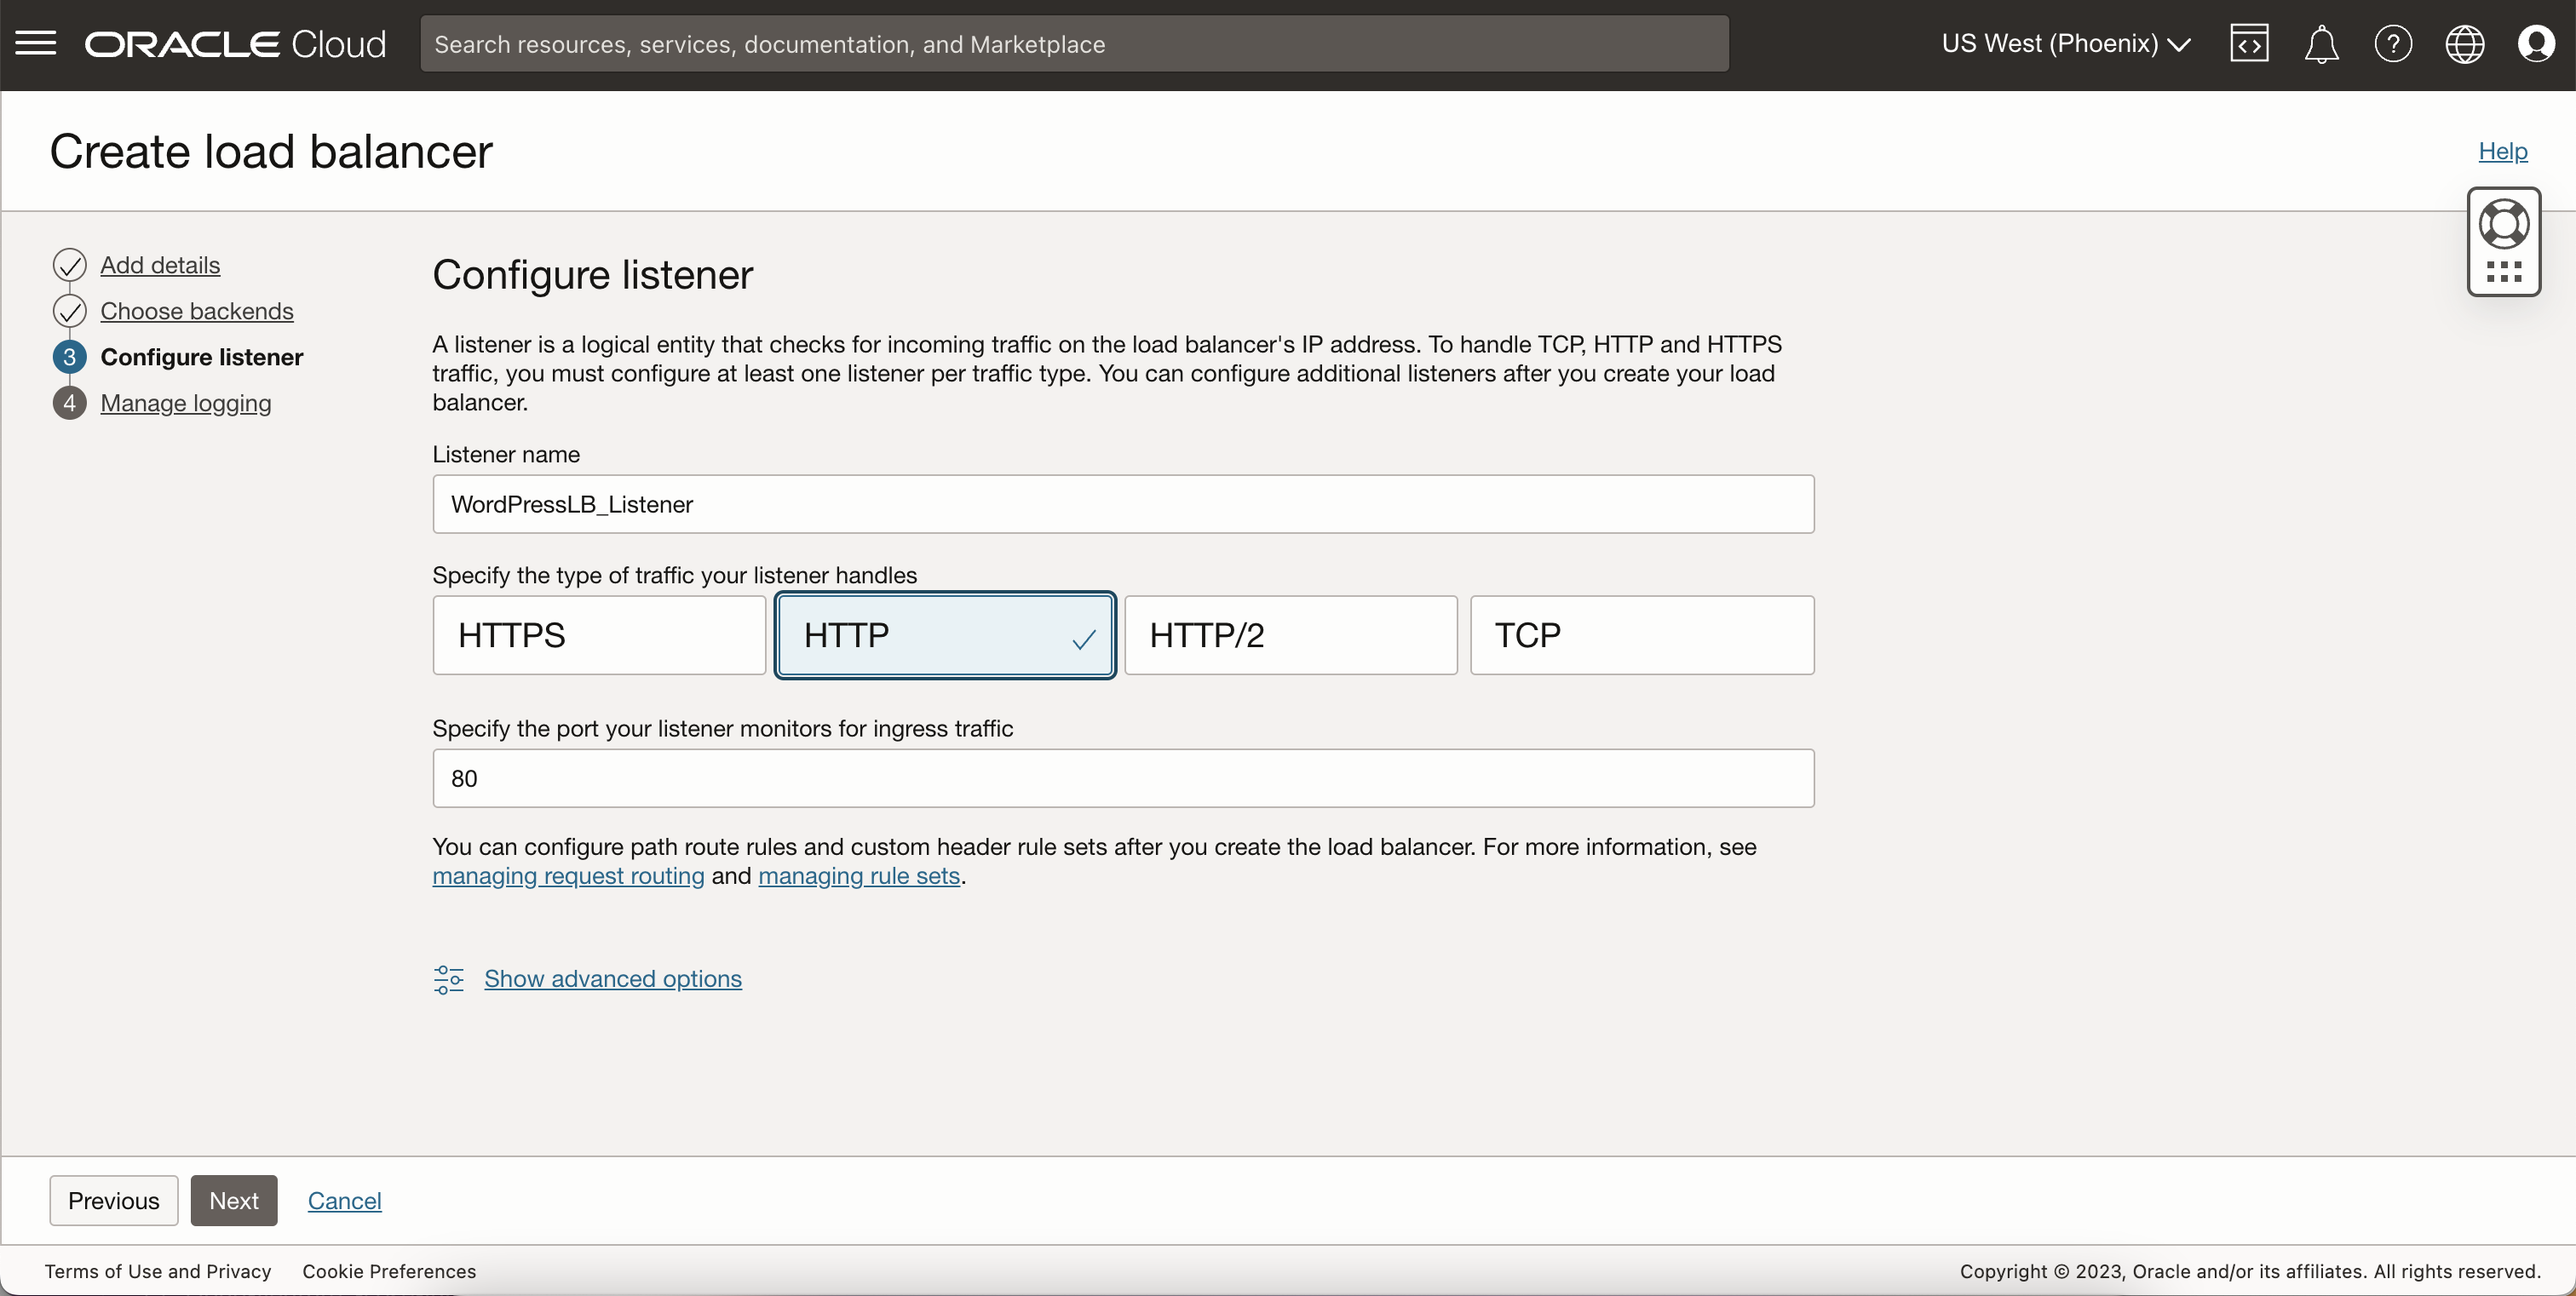
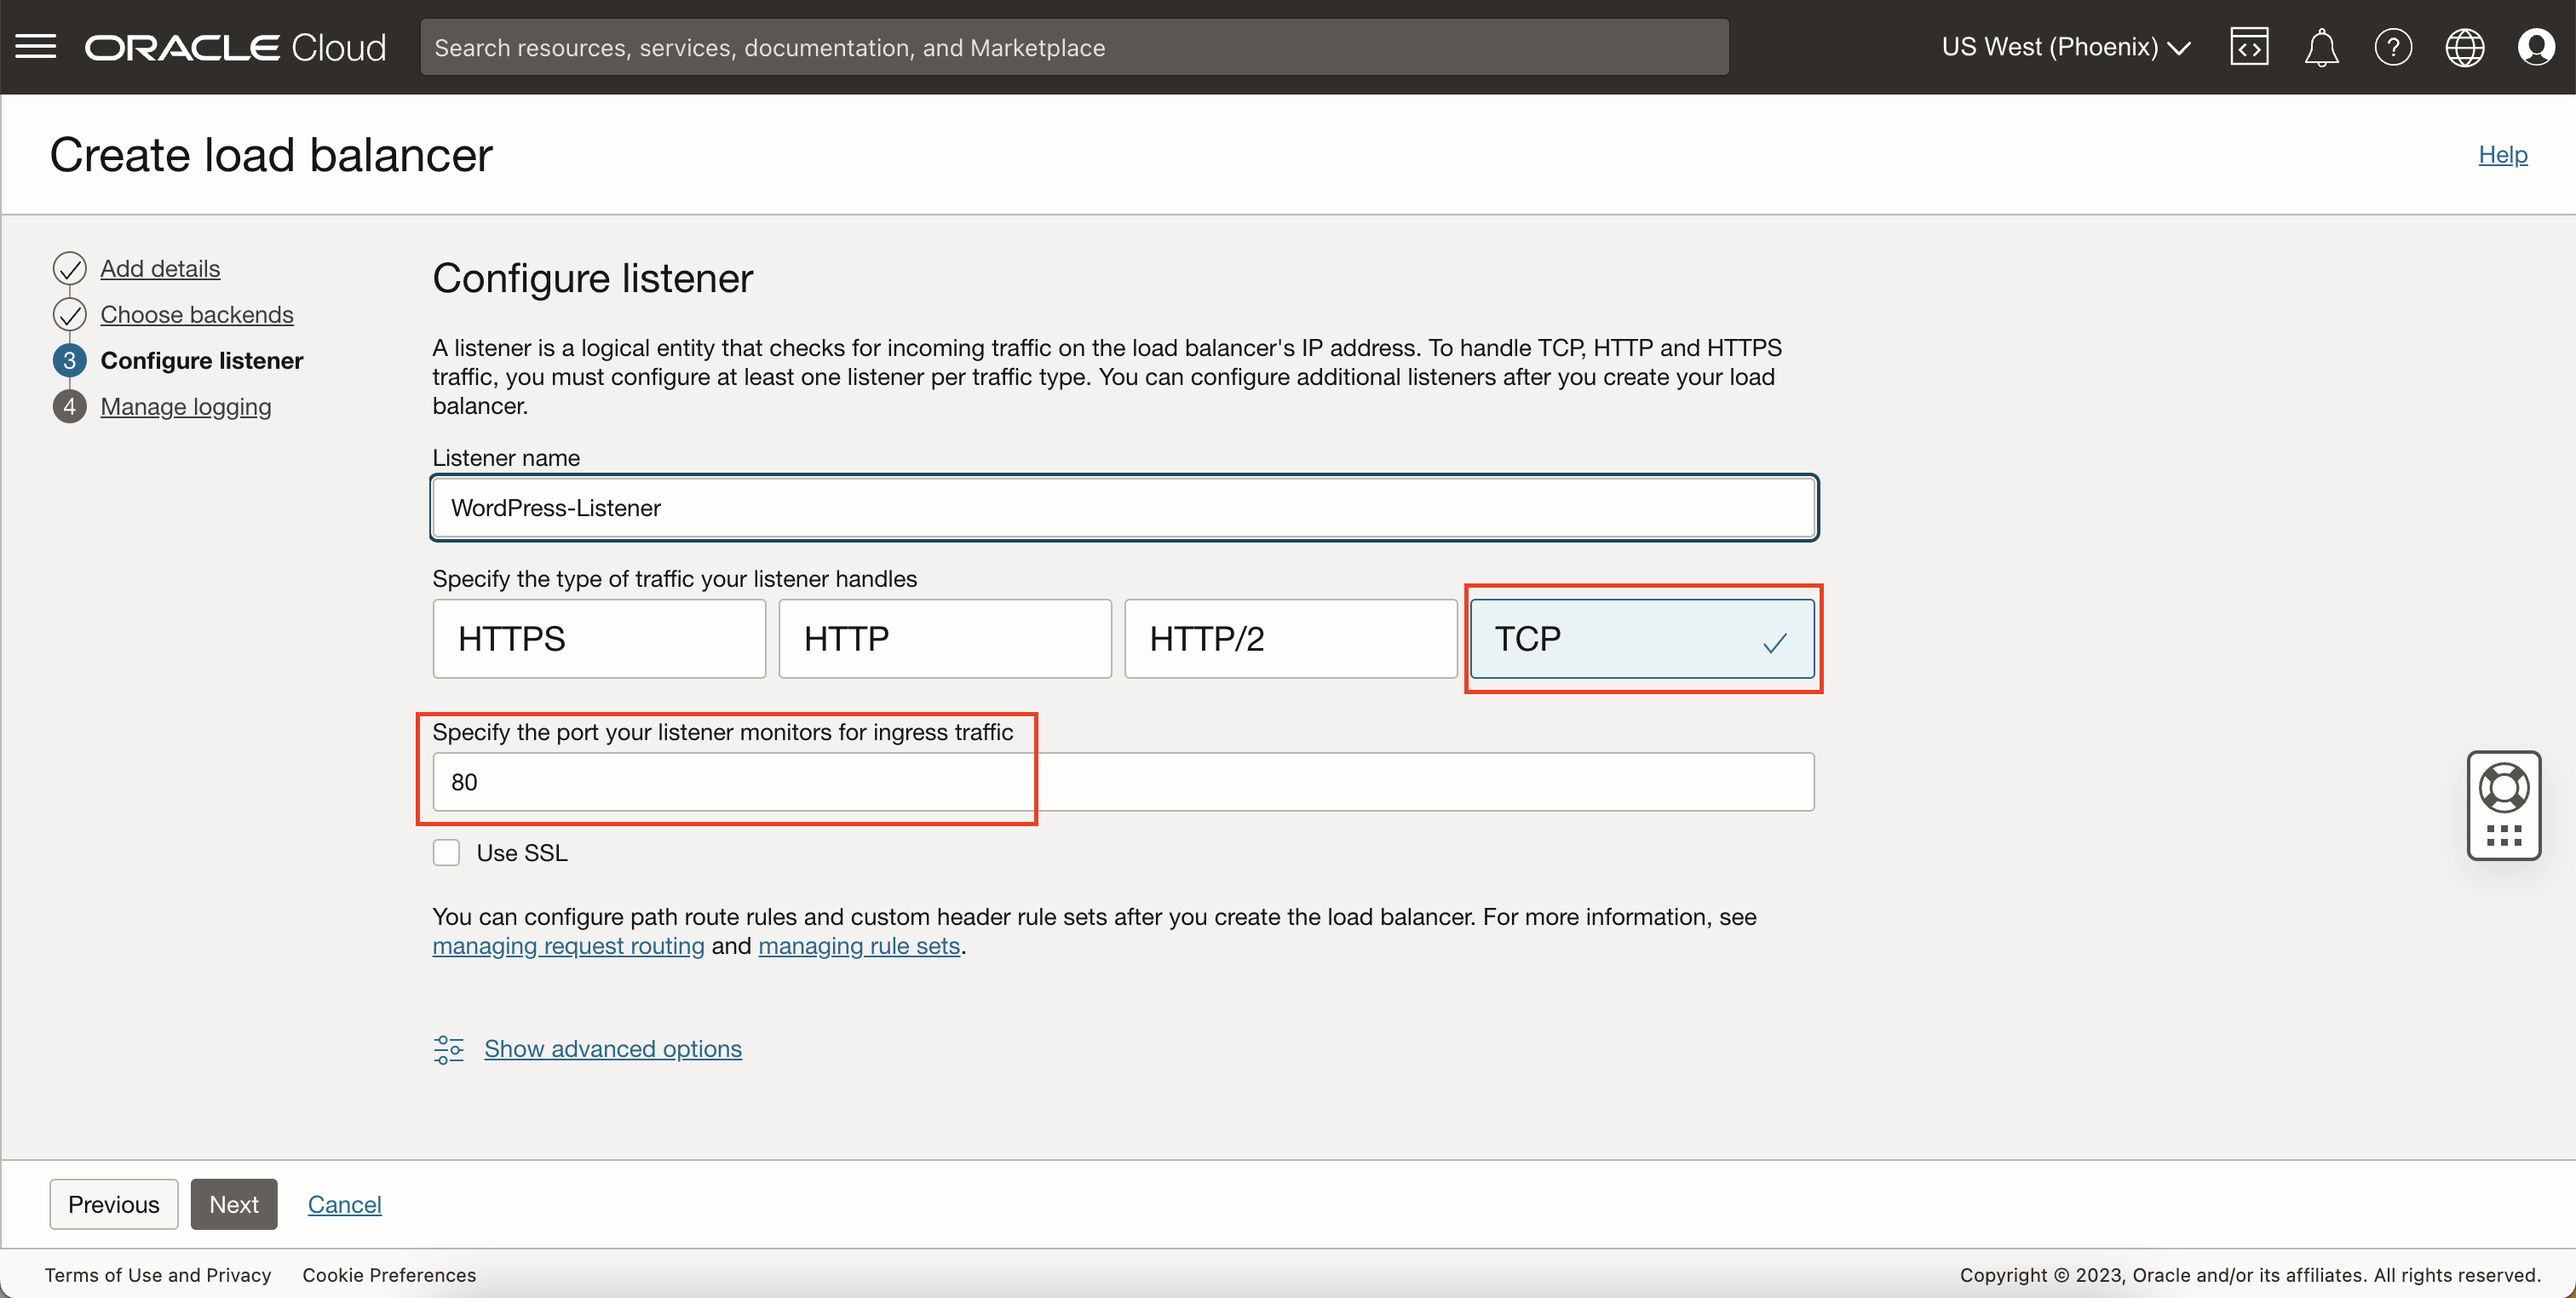
wordpress lab update

diff --git a/host-ha-website-oci-services/compute-wordpress/compute-wordpress.md b/host-ha-website-oci-services/compute-wordpress/compute-wordpress.md
@@ -152,9 +152,9 @@ This lab assumes you have:
 
 6. Click 'Add'
 
-7. Wait for the work request to finish
+7. Wait for the work request to finish and for the health check to return "OK"
 
-  ![Image alt text](images/sample.png)
+  ![Image alt text](images/wp-lb-instance-added.png)
 
 8. Test the Apache Server using the Load Balancer's Public IP on your Web Browser
 
@@ -162,7 +162,7 @@ This lab assumes you have:
 
     Example: http://10.10.10.10
 
-    ![Image alt text](images/sample.png)
+    ![Image alt text](images/wp-lb-apache-page.png)
 
 ## Task 5. Install PHP and other required packages
 
@@ -177,14 +177,14 @@ This lab assumes you have:
 
 2. Create a test PHP file
     ```
-    <copy>echo -e '<?php \nphpinfo();' | sudo tee /var/www/html/test.php</copy>
+    <copy>echo -e '<?php \nphpinfo();' | sudo tee /var/www/html/info.php</copy>
     ```
 
 3. Test the info.php page on your web browser using the load balancer's IP address
 
-    Example: http://10.10.10.10/test.php
+    Example: http://10.10.10.10/info.php
 
-  ![Image alt text](images/sample1.png)
+  ![Image alt text](images/wp-php-page.png)
 
 4. Install MySQL and MySQL Shell
     ```
@@ -273,9 +273,11 @@ This lab assumes you have:
 
 1. From a browser access http://load-balancer-ip-address/wp-admin/setup-config.php.
 
+  ![Image alt text](images/wp-welcome-config-php.png)
+
 2. Click Let’s Go.
 
-3. Fill the following information:
+3. Fill the following information for the database connection and then click Submit:
 
 
 
@@ -285,17 +287,36 @@ This lab assumes you have:
     - Database Host: MySQL Database Service IP address
     - Table Prefix: leave as is. only need to change if multiple WordPress running on the same database
 
+  ![Image alt text](images/wp-db-connection.png)
+
 4. Click Run the installation.
 
-5. Fill the following information in the welcome screen:
+  ![Image alt text](images/wp-run-installation.png)
+
+5. Fill the following information in the welcome screen then click Install WordPress:
 
 
 
     - Site Title: WordPress site title
-    - Username: WordPress admin
-    - Password: WordPress admin password
+    - Username: WordPress website user
+    - Password: WordPress website password
     - Your Email: your email
     - Click Install WordPress.
+
+    ![Image alt text](images/wp-welcome-page.png)
+
+6. Click Log In
+
+  ![Image alt text](images/wp-success-install.png)
+
+7. Log in with the Wordpress website user and password you just created
+
+  ![Image alt text](images/wp-login-page.png)
+
+7. Congratulations! You have now installed WordPress!
+
+  ![Image alt text](images/wp-dashboard.png)
+
 
 
     You may now follow the instructions on:

diff --git a/host-ha-website-oci-services/load-balancer/load-balancer.md b/host-ha-website-oci-services/load-balancer/load-balancer.md
@@ -74,7 +74,7 @@ This lab assumes you have:
 
 
   Ensure the following are set:
-    - Protocol: HTTP
+    - Protocol: TCP
     - Port: 80
 
   ![Image alt text](images/loadbalancer-healthcheck.png)
@@ -88,7 +88,7 @@ This lab assumes you have:
 
 
     - Name: WordPressLB_Listener
-    - Traffic: HTTP
+    - Traffic: TCP
     - Port: 80
 
   ![Image alt text](images/load-balancer-listener.png)
